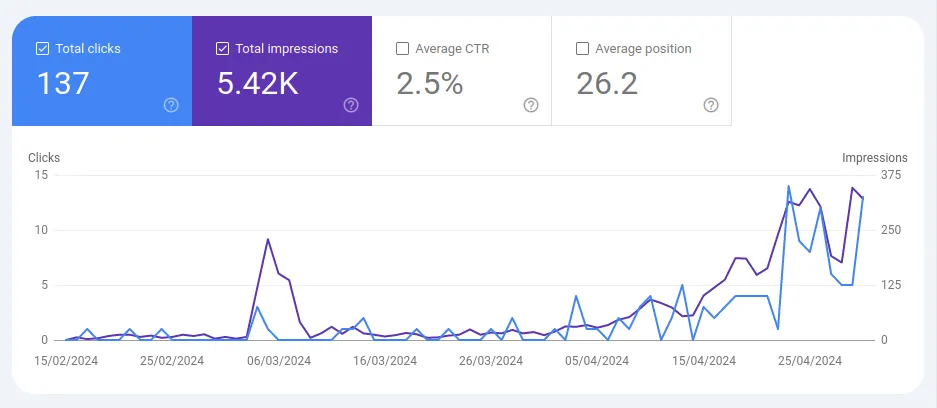
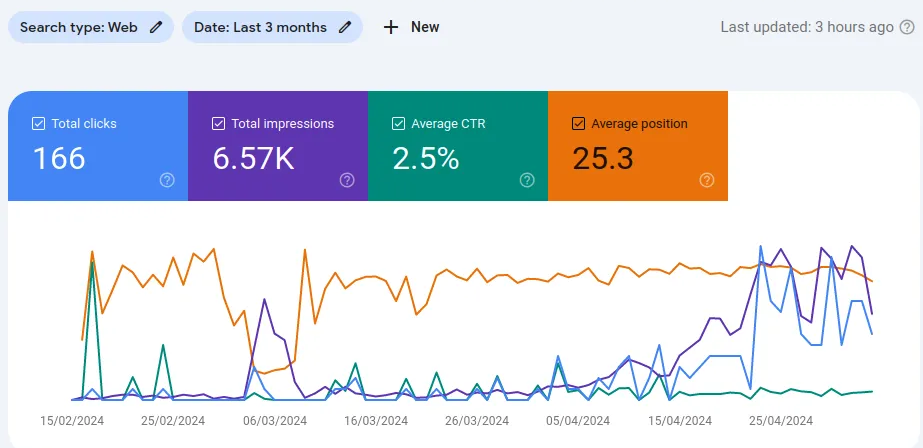
chore(CM): modify the accomplishments a little

diff --git a/docs/posts/0010-cert-manager.md b/docs/posts/0010-cert-manager.md
@@ -57,8 +57,20 @@ SEO keywords:
  - AWS
  - Route53
  - Cloudflare
--->
 
+cert-manager helm chart
+acme certificate
+let's encrypt
+kubernetes tls secret
+kubernetes ingress tls
+kubernetes install cert-manager [helm]
+kubernetes cert-manager letsencrypt
+kubernetes cert-manager renew certificate
+kubernetes cert-manager wildcard certificate
+cert-manager clusterissuer
+cert-manager letsencrypt kubernetes
+cert-manager certificate
+-->
 
 <!-- more -->
 
@@ -99,26 +111,45 @@ With that introduction, let's kick off the installation of cert-manager.
     launch (the [initial commit in Feb 13, 2024]).
 
     - [x] 10 posts published :books:
-    - [x] 13.8k+ words written so far (37k+ including codes) :pencil:
-    - [x] 2.48k+ views since the launch :eyes:
-    - [x] 130+ clicks coming from search engines :mag:
+    - [x] 14k+ words written so far (40k+ including codes) :pencil:
+    - [x] 2.5k+ views since the launch :eyes:
+    - [x] 160+ clicks coming from search engines :mag:
 
     You can find the corresponding screenshots below:
 
-    <figure markdown="span">
-      ![Clicks](../static/img/0010/performance.webp "Click to zoom in"){ loading=lazy }
-      <figcaption>Search Engine Perfomance</figcaption>
-    </figure>
+    <div class="grid cards" markdown>
 
-    <figure markdown="span">
-      ![Clicks](../static/img/0010/clicks-achievements.webp "Click to zoom in"){ loading=lazy }
-      <figcaption>Search Engine Clicks</figcaption>
-    </figure>
+    - <figure markdown="span">
+        ![Performance](../static/img/0010/performance.webp "Click to zoom in"){ loading=lazy }
+        <figcaption>Search Engine Perfomance</figcaption>
+      </figure>
 
-    <figure markdown="span">
-      ![Clicks](../static/img/0010/total-views.webp "Click to zoom in"){ loading=lazy }
-      <figcaption>Total Views</figcaption>
-    </figure>
+    - <figure markdown="span">
+        ![Views](../static/img/0010/total-views.webp "Click to zoom in"){ loading=lazy }
+        <figcaption>Total Views</figcaption>
+      </figure>
+
+    - <figure markdown="span">
+          ![Visitors](../static/img/0010/visitors.webp "Click to zoom in"){ max-width="300" loading=lazy }
+          <figcaption>Visitors (30 days)</figcaption>
+      </figure>
+
+    - <figure markdown="span">
+          ![Countries](../static/img/0010/countries.webp "Click to zoom in"){ max-width="300" loading=lazy }
+          <figcaption>Countries (30 days)</figcaption>
+      </figure>
+
+    </div>
+
+    I don't run ads on this blog (yet!? :thinking:) and my monetization plan,
+    as of the moment, is nothing! I may switch gear at some point; financial
+    independence and doing this full-time makes me happy honestly :relaxed:.
+    But, for now, I'm just enjoying writing in Markdown format and seeing how
+    [Material for Mkdocs] renders rich content from it.
+
+    If you are interested in supporting this effort, the GitHub Sponsors
+    program, as well as the PayPal donation link are available at the bottom
+    of all the pages in our website.
 
     Greatly appreciate you being here and hope you keep coming back. :champagne_glass:
 
@@ -262,7 +293,7 @@ the AWS Route53 issuer, we will make it so that a subdomain will be resolved
 by a Route53 Hosted Zone. That way, we can instruct the cert-manager controller
 to talk to the Route53 API for record creation and domain verfication.
 
-<figure markdown="span" style="border: 1px solid #000">
+<figure markdown="span">
    ![Nameservers](../static/img/0010/ns-providers.webp "Click to zoom in"){ loading=lazy }
    <figcaption>Nameserver Diagrams</figcaption>
 </figure>
@@ -400,11 +431,11 @@ If you're wondering why we're changing the configuration of the cert-manager
 Deployment with a new Helm upgrade, you will find an exhaustive discussion
 and my comment on [the relevant GitHub issue].
 
-The gist of that conversation is that cert-manager Deployment won't take into
+The gist of that conversation is that the cert-manager Deployment won't take into
 account the `eks.amazonaws.com/role-arn` annotation on its Service Account, as
 [you'd see the External Secrets Operator would](./0008-k8s-federated-oidc.md#step-7-test-the-setup).
-It won't even consider using the `spec.acme.solvers[*].dns01.route53.role`
-field on its ClusterIssuer for some reason! :gun:
+It won't even consider using the `ClusterIssuer.spec.acme.solvers[*].dns01.route53.role`
+field for some reason! :gun:
 
 That's why we're manually passing that information down to its [AWS Go SDK]
 using [the official environment variables].
@@ -424,11 +455,11 @@ there is always the option to pass the credentials around in your environment.
 That leaves you with the burden of having to rotate them every now and then,
 but if you're cool with that, there's nothing stopping you from going down
 that path. You also have the possibility of automating such rotation using
-less than 10 lines of code in any programming language.
+less than 10 lines of code in any programming language of course.
 
 All that said, I have to say that I consider this to be an
 [implementation bug][the relevant GitHub issue]
-when cert-manager does not provide you with a clean interface to easily
+where cert-manager does not provide you with a clean interface to easily
 pass around IAM Role ARN. The cert-manager controller SHOULD be able to assume
 the role it is given with the web identity flow!
 
@@ -436,7 +467,7 @@ Regardless of such shortage, in this section, I'll provide you a simpler way
 around this.
 
 Bear in mind that I do not recommend this approach, and wouldn't use it in my
-own environment either. :shrug:
+own environments either. :shrug:
 
 The idea is to use our
 [previously deployed ESO](./0009-external-secrets-aks-to-aws-ssm.md) and pass
@@ -593,7 +624,7 @@ completeness, here's [the way to do it] using [Cilium CLI].
 
 And now, let's create the Gateway CRD.
 
-```yaml title="gateway/gateway.yml" hl_lines="6 24 28"
+```yaml title="gateway/gateway.yml" hl_lines="6 11 17 24 28"
 -8<- "docs/codes/0010/gateway/gateway.yml"
 ```
 
@@ -744,3 +775,4 @@ Until next tima, *ciao* :cowboy: and happy hacking! :crab: :penguin: :whale:
 [the relevant GitHub issue]: https://github.com/cert-manager/cert-manager/issues/2147#issuecomment-2094066782
 [AWS Go SDK]: https://github.com/aws/aws-sdk-go
 [the official environment variables]: https://docs.aws.amazon.com/cli/latest/userguide/cli-configure-envvars.html
+[Material for Mkdocs]: https://squidfunk.github.io/mkdocs-material
